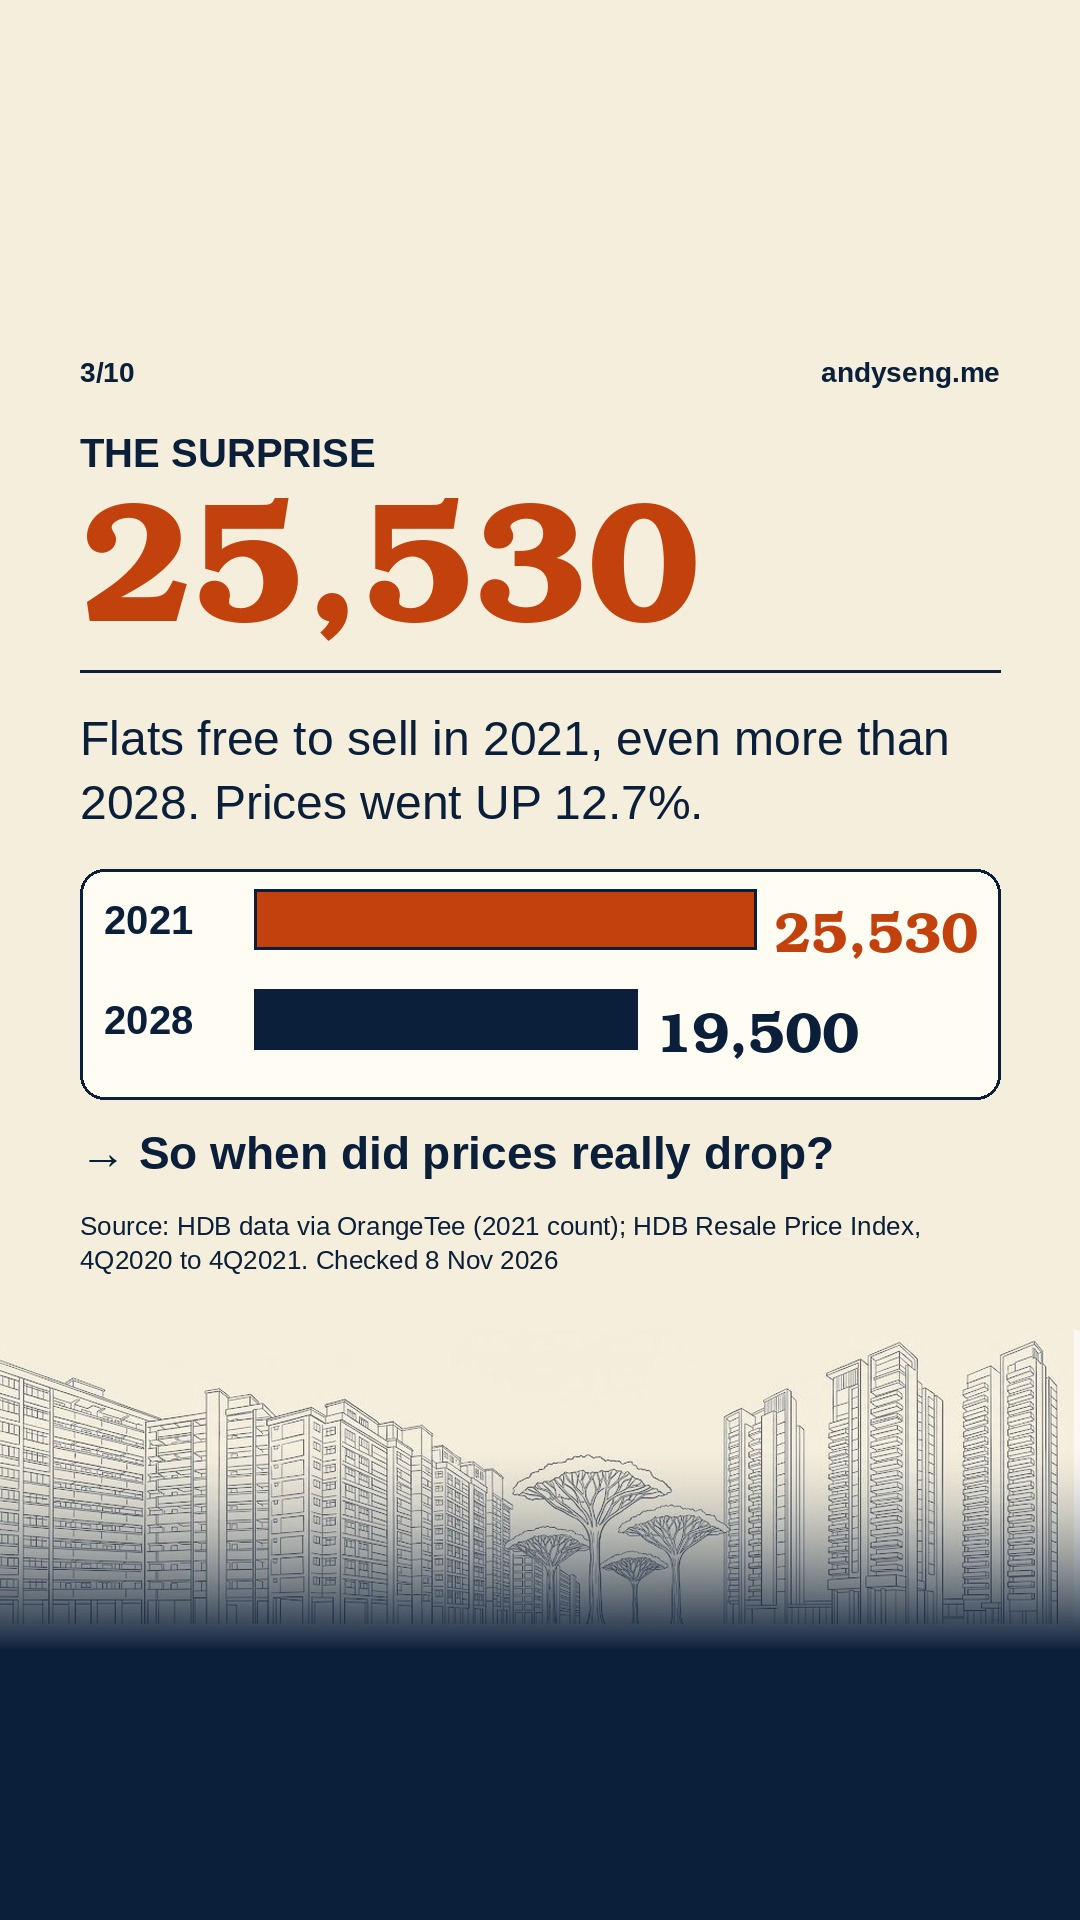
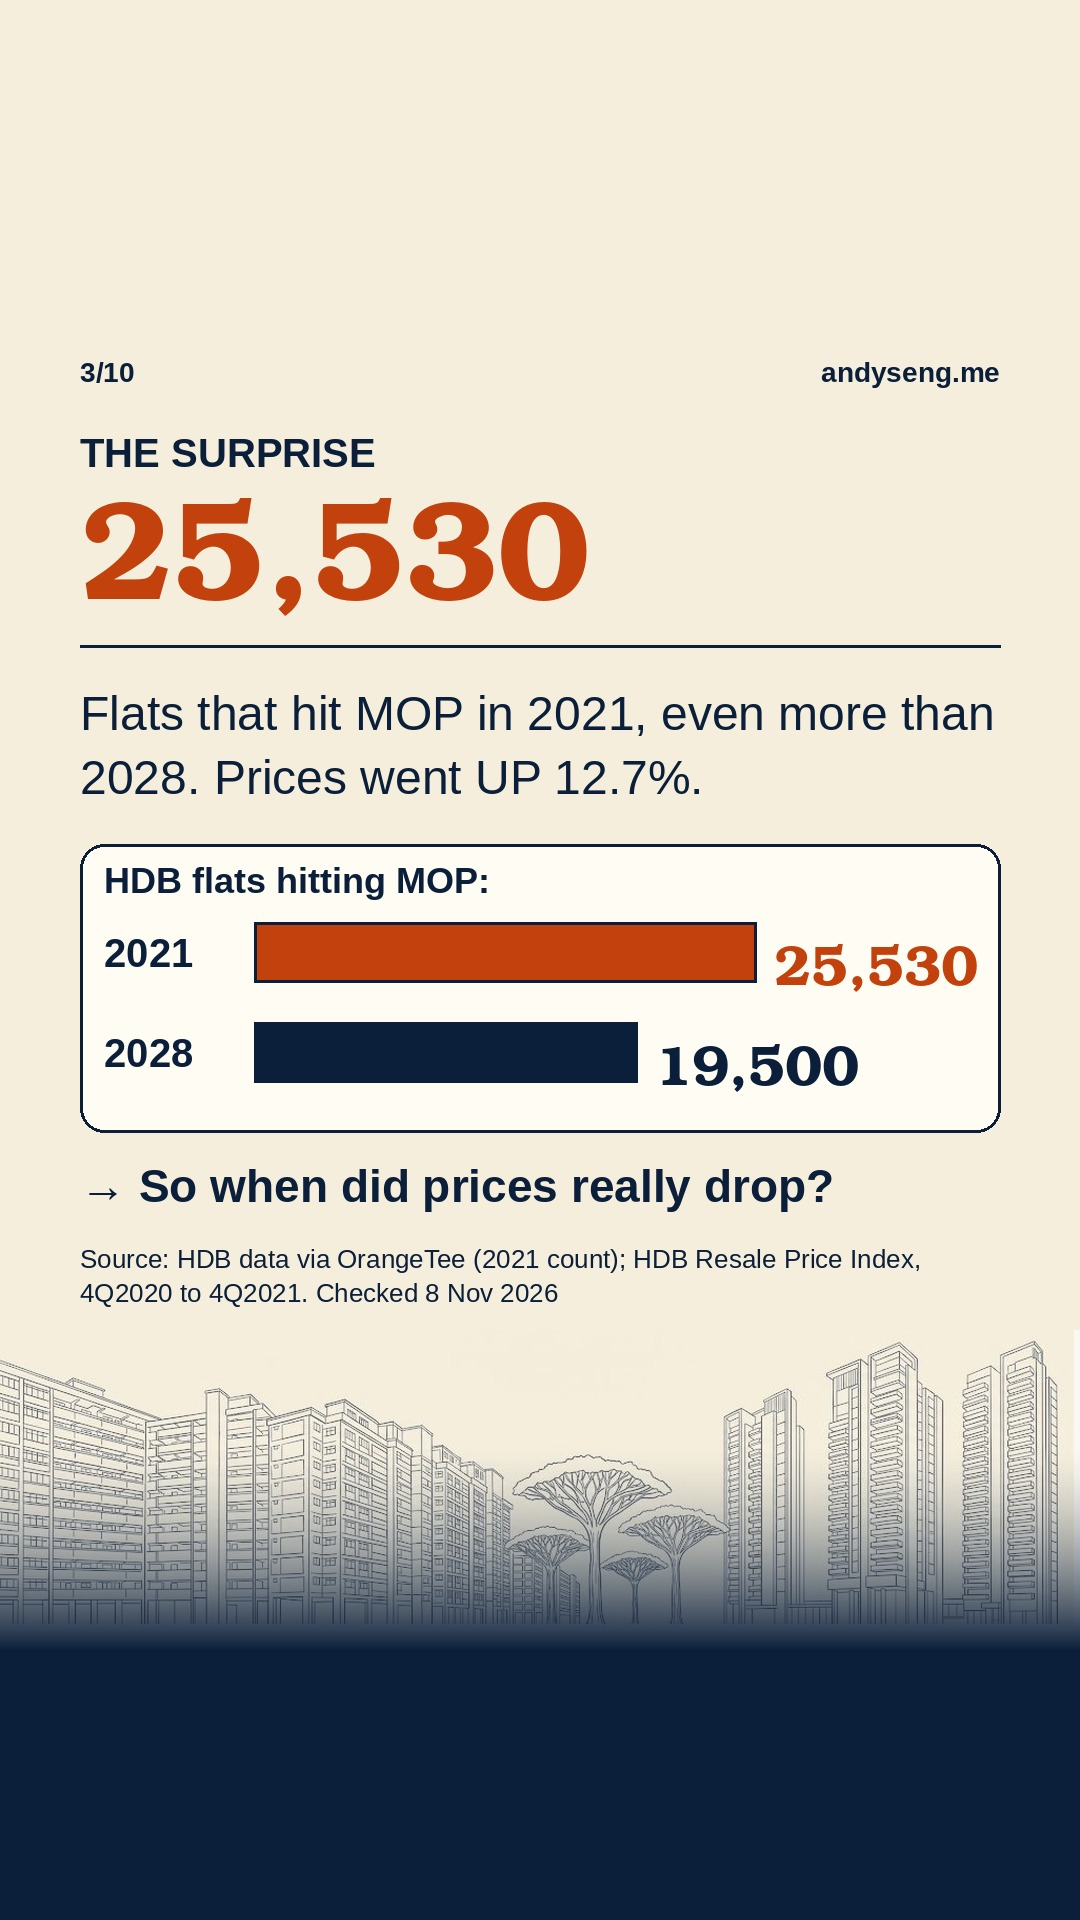
HDB post: use MOP on bar charts and captions
Claude-Session: https://claude.ai/code/session_01HHhgALkj4HFz4WAMiLt41o

Changed region(s): [[0.0611, 0.25, 0.9472, 0.6875]]

diff --git a/2026-11-17-hdb-crash-data/captions.md b/2026-11-17-hdb-crash-data/captions.md
@@ -1,9 +1,9 @@
 # HDB price-drop post: captions (scheduled Tue 17 Nov 2026, 9pm; revised 12 Nov to the property-carousel skill)
 
 ## Instagram (auto-shares to FB)
-HDB prices sure drop, right? 19,500 flats are free to sell in 2028, more than double 2025.
+HDB prices sure drop, right? 19,500 flats hit MOP in 2028, more than double 2025.
 
-Not so fast. In 2021, even more flats were free to sell (25,530). Prices went up 12.7%.
+Not so fast. In 2021, even more flats hit MOP (25,530). Prices went up 12.7%.
 
 I checked 36 years of HDB prices. Only 2 long drops:
 1996 to 2002: down 30%
@@ -27,4 +27,4 @@ Andy Seng (Seng Cher Chin) | PropNex Realty Pte Ltd | CEA Reg No: R058286J | Age
 HDB prices sure drop? 36 years of data
 
 ## TikTok (one paragraph)
-HDB prices sure drop? 19,500 flats are free to sell in 2028. But 2021 had even more, and prices went up 12.7%. Only 2 long drops in 36 years, and today has just 1 of the 4 signs. Selling? Comment BLOCK and I'll send your block's recent sales. HDB resale prices Singapore 2026. #hdb #singaporeproperty #hdbresale Source: HDB Resale Price Index; MND; HDB data via OrangeTee. Checked 8 Nov 2026. My opinion on public data, not a forecast. Andy Seng (Seng Cher Chin) | PropNex Realty Pte Ltd | CEA Reg No: R058286J | Agency Licence No: L3008022J | WhatsApp 9002 1510
+HDB prices sure drop? 19,500 flats hit MOP in 2028. But 2021 had even more, and prices went up 12.7%. Only 2 long drops in 36 years, and today has just 1 of the 4 signs. Selling? Comment BLOCK and I'll send your block's recent sales. HDB resale prices Singapore 2026. #hdb #singaporeproperty #hdbresale Source: HDB Resale Price Index; MND; HDB data via OrangeTee. Checked 8 Nov 2026. My opinion on public data, not a forecast. Andy Seng (Seng Cher Chin) | PropNex Realty Pte Ltd | CEA Reg No: R058286J | Agency Licence No: L3008022J | WhatsApp 9002 1510
